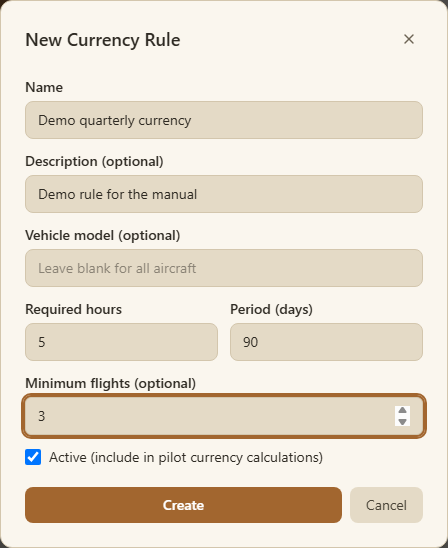
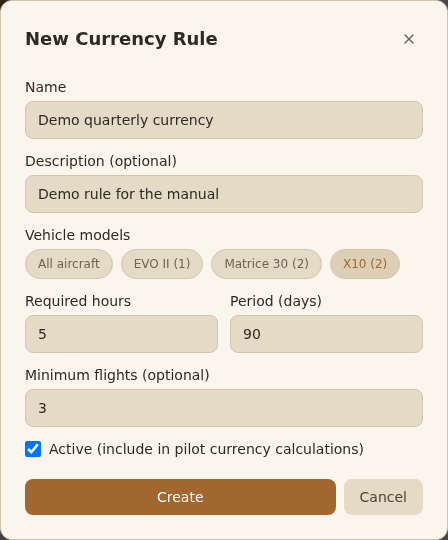
Document the currency model picker

diff --git a/frontend/e2e/currency-rules.spec.js b/frontend/e2e/currency-rules.spec.js
@@ -1,0 +1,34 @@
+import { test, expect } from '@playwright/test'
+
+// Currency rule journey: an admin opens Settings, creates a rule on one fleet
+// model from the model picker, and the rule list shows that model. Runs as the
+// default admin storageState. The seeded fleet holds a Skydio X10 and a DJI
+// Matrice 30, so the picker offers both as toggle chips.
+
+test('admin creates a currency rule on one fleet model from the picker', async ({ page }) => {
+  const name = `E2E model rule ${Date.now()}`
+
+  await page.goto('/settings')
+  await expect(page.getByRole('heading', { name: 'Currency Rules' })).toBeVisible({ timeout: 15_000 })
+  await page.getByRole('button', { name: 'New Rule', exact: true }).click()
+
+  const modal = page.getByRole('dialog')
+  await modal.locator('#rule-name').fill(name)
+
+  // New rules start on All aircraft.
+  const all = modal.getByRole('button', { name: 'All aircraft', exact: true })
+  await expect(all).toHaveAttribute('aria-pressed', 'true')
+
+  // One chip per fleet model, labelled with its active aircraft count.
+  const x10 = modal.getByRole('button', { name: /^X10 \(\d+\)$/ })
+  await expect(x10).toBeVisible({ timeout: 15_000 })
+  await x10.click()
+  await expect(x10).toHaveAttribute('aria-pressed', 'true')
+  await expect(all).toHaveAttribute('aria-pressed', 'false')
+
+  await modal.getByRole('button', { name: 'Create', exact: true }).click()
+  await expect(modal).toBeHidden()
+
+  await expect(page.getByText(name)).toBeVisible({ timeout: 15_000 })
+  await expect(page.getByText('X10 only').first()).toBeVisible()
+})

diff --git a/frontend/manual-shots/shots.js b/frontend/manual-shots/shots.js
@@ -300,6 +300,7 @@ export const SHOTS = [
       '#rule-days': '90',
       '#rule-flights': '3',
     },
+    after: (dialog) => dialog.getByRole('button', { name: /^X10 \(\d+\)$/ }).click(),
   }),
   {
     file: 'certifications-certification-matrix.png',

diff --git a/docs/TEST_CHECKLIST.md b/docs/TEST_CHECKLIST.md
@@ -356,6 +356,7 @@ Setup: create one login each for Supervisor, Pilot and Viewer (for example `<sup
 | 35. Backup & Restore | | |
 | 36. Role Permissions | | |
 | 37. Release Staging Pass | | |
+| 38. Currency Rules | | |
 
 ---
 
@@ -375,3 +376,37 @@ Run on the staging instance with `TRUSTED_PROXIES` set to the proxy's address, b
 - [ ] Spreadsheet export cells starting with a space then `=` open as text
 - [ ] Restore of a backup with held items needs the confirmation text
 - [ ] The image scan step passes (or is understood, see the release notes)
+
+---
+
+## 38. Currency Rules
+
+Setup: an admin, a supervisor and a viewer login. Fleet with at least two models (for example X10 and Matrice 30), one of them with a retired aircraft only. Two pilots with reviewed flights on each model.
+
+### 38.1 Access
+- [ ] Supervisor sees Currency Rules on the Settings General tab and can create, edit and delete a rule
+- [ ] Supervisor does not see user management, backups or other admin-only cards
+- [ ] Viewer cannot open Currency Rules and direct rule writes are refused
+
+### 38.2 Model picker
+- [ ] A new rule starts on All aircraft, and no model chip is pressed
+- [ ] There is one chip per fleet model, labelled with its active aircraft count, for example X10 (4)
+- [ ] Picking a model turns All aircraft off; turning every model off turns All aircraft back on
+- [ ] A model with no active aircraft is not offered, unless an existing rule already uses it
+- [ ] A rule model that is not in the fleet shows as a dashed chip marked Not in fleet; clicking it removes it
+- [ ] Saved rule appears in the list with its models, or no model note for All aircraft
+
+### 38.3 Rule with two models
+- [ ] Create a rule with both models; a pilot's flights on either model count toward hours and flights
+- [ ] A flight on a third model does not count
+- [ ] A flight waiting for review does not count until it is reviewed
+- [ ] Editing the rule to one model drops the other model's flights from the count
+
+### 38.4 Existing rule after upgrade
+- [ ] A rule that had one typed model before the upgrade shows that model pressed in the picker
+- [ ] A rule that had no model shows All aircraft
+- [ ] Pilot currency status is the same as before the upgrade
+
+### 38.5 Backup and restore
+- [ ] Export a backup with a two-model rule, change the rule, then restore; both models are back
+- [ ] Restore a backup taken before this feature; its rules keep their models and pilot currency is unchanged
